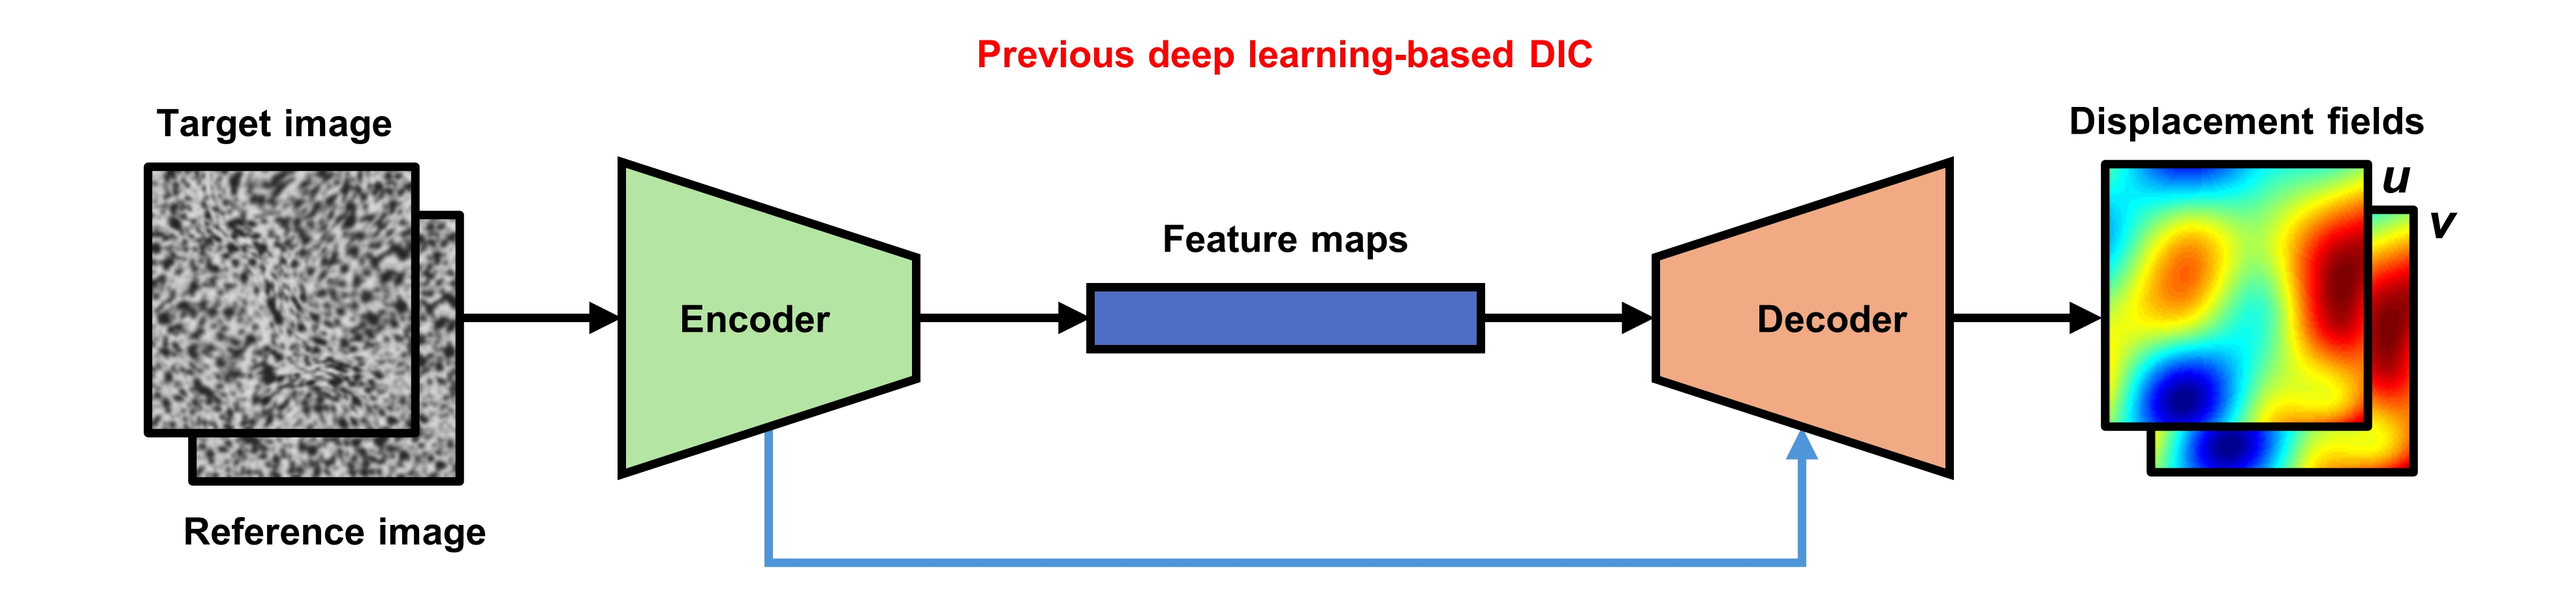
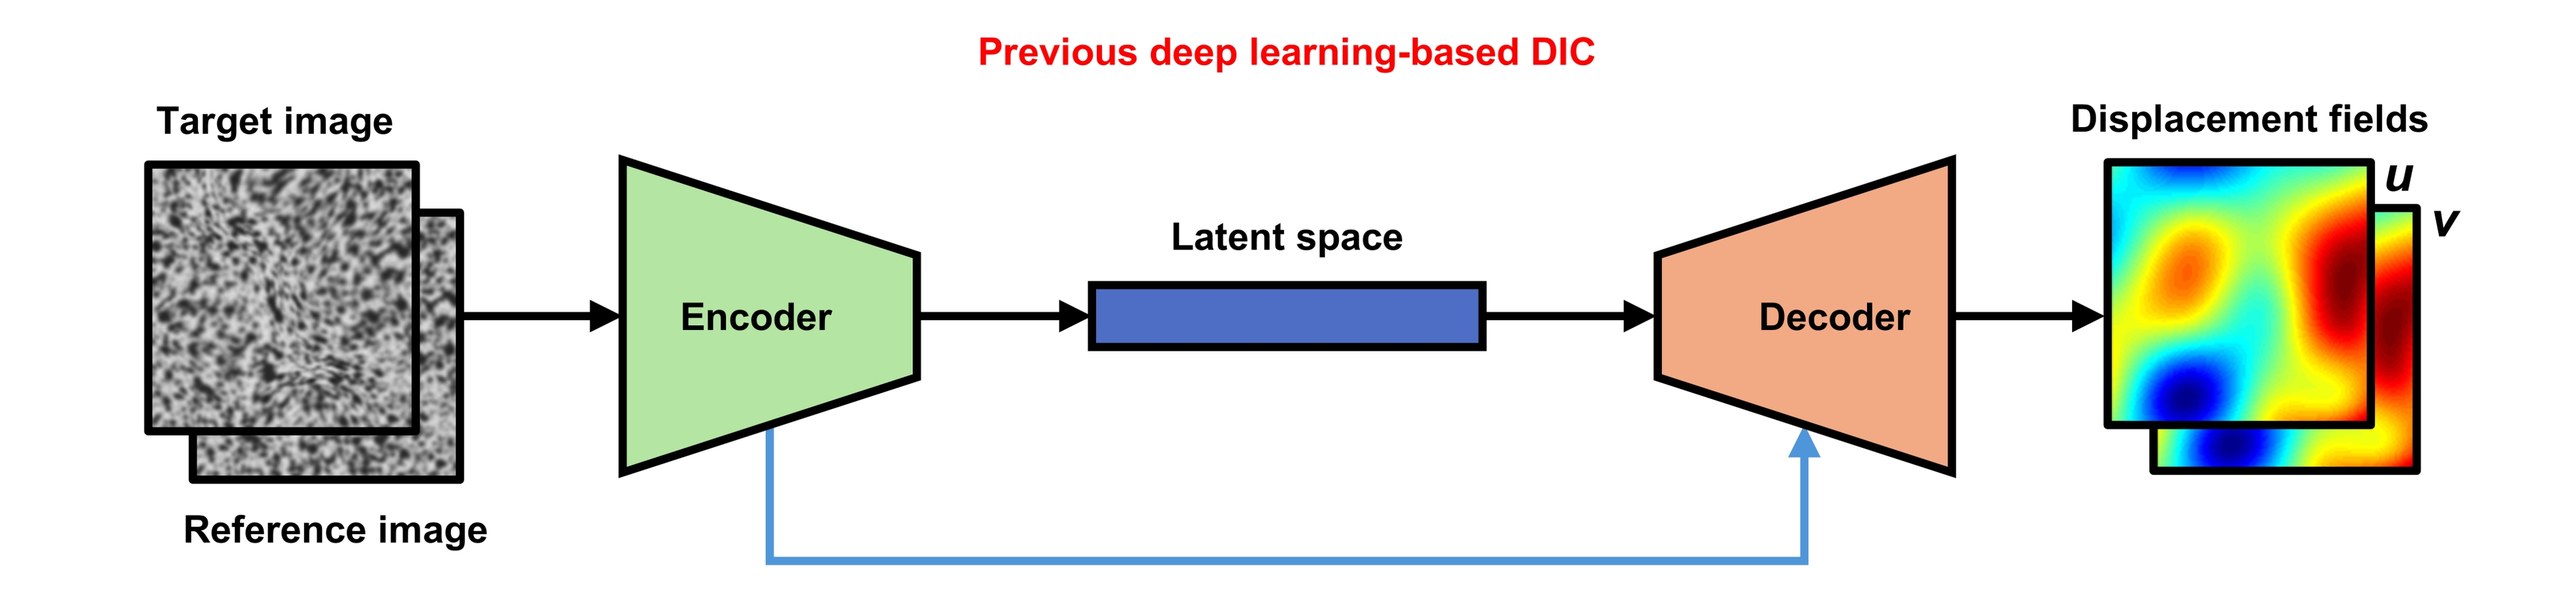
Update README

diff --git a/README.md b/README.md
@@ -8,7 +8,7 @@ A DIC network developed based on GMFlow for high accuracy measurement of deforma
 
 ![Structure](./img/dictr_flowchart.jpg)
 
-**Different from previous models that construct feature maps to directly establish the relationship between grayscale value changes and the displacements, DICTr reformulates the problem back to the image registration driven by feature matching, which has clearer physical meaning.**
+**Different from previous models that directly establish the relationship between grayscale value changes and the displacements, DICTr reformulates the problem back to the image registration driven by feature matching, which has clearer physical meaning.**
 
 ![Previous](./img/previous.jpg)
 
